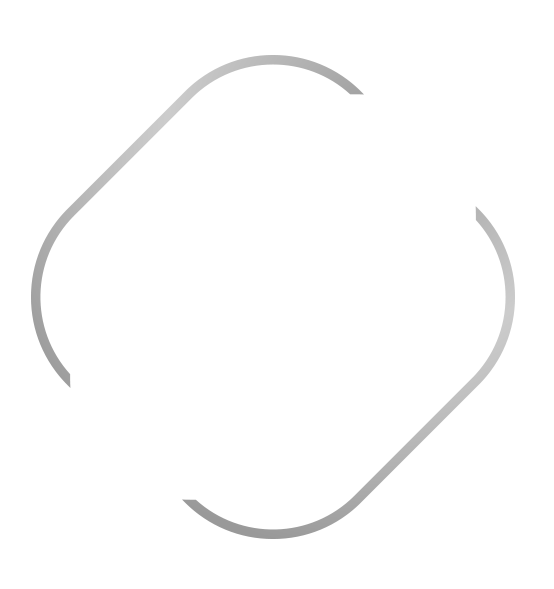
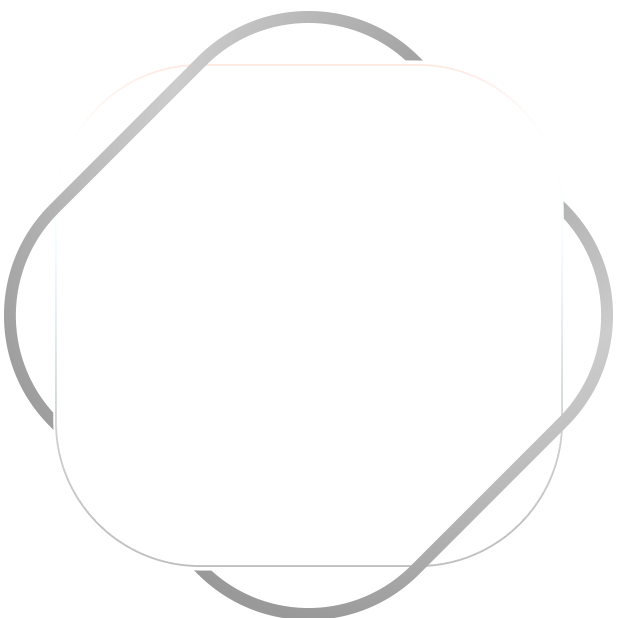
update the home hero section

diff --git a/app/(main)/components/hero.tsx b/app/(main)/components/hero.tsx
@@ -200,10 +200,10 @@ export function Hero() {
         {/* ================= LEFT CONTENT ================= */}
         <div className="lg:w-1/2 w-full flex flex-col gap-4">
           {/* IMAGE SLIDER */}
-          <div className="relative w-[22rem] h-[22rem] lg:w-[25rem] lg:h-[25rem] mx-auto">
-            {/* Slider */}
-            <div className="lg:relative lg:w-[100%] lg:h-[100%] mb-10">
-              {/* MASKED IMAGE */}
+           <div className="relative w-[22rem] h-[22rem] lg:w-[25rem] lg:h-[25rem] mx-auto">
+            
+            {/* <div className="lg:relative lg:w-[100%] lg:h-[100%] mb-10">
+            
               <div
                 className="lg:absolute inset-0 z-10 top-[60px] lg:left-[60px]"
                 style={{
@@ -220,15 +220,38 @@ export function Hero() {
                 }}
               />
 
-              {/* FRAME BORDER IMAGE */}
+              
               <img
                 src="/home/round.png"
                 alt="frame"
-                className="hidden lg:block absolute -rotate-6   inset-0 w-full h-full z-20 pointer-events-none"
+                className="hidden lg:block absolute    inset-0 w-full h-full z-20 pointer-events-none"
               />
-            </div>
+            </div> */}
 
-            {/* NAME + SCORE */}
+
+              <div className="w-full hidden lg:block">
+                <div className="relative w-[250px] h-[250px] sm:w-[300px] sm:h-[300px] lg:w-[450px] lg:h-[450px]">
+                  <div className="lg:relative lg:w-[92%] lg:h-[91%]">
+                    <div
+                      className="lg:absolute inset-0 z-10 lg:top-[41px] lg:left-[38px]"
+                      style={{
+                        backgroundImage: `url(${images?.[index]?.url})`,
+                        backgroundSize: "cover",
+                        backgroundPosition: "center",
+                        width: "335px",
+                        height: "335px",
+                        borderRadius: "100px",
+                      }}
+                    />
+                    <img
+                      src="/home/round.png"
+                      alt="frame"
+                      className="absolute inset-0 w-full h-full z-20 pointer-events-none"
+                    />
+                  </div>
+                </div>
+              </div>
+
 
             <div
               style={{
@@ -251,7 +274,10 @@ export function Hero() {
                 </li>
               </ul>
             </div>
-          </div>
+          </div> 
+
+
+          
         </div>
       </div>
 
